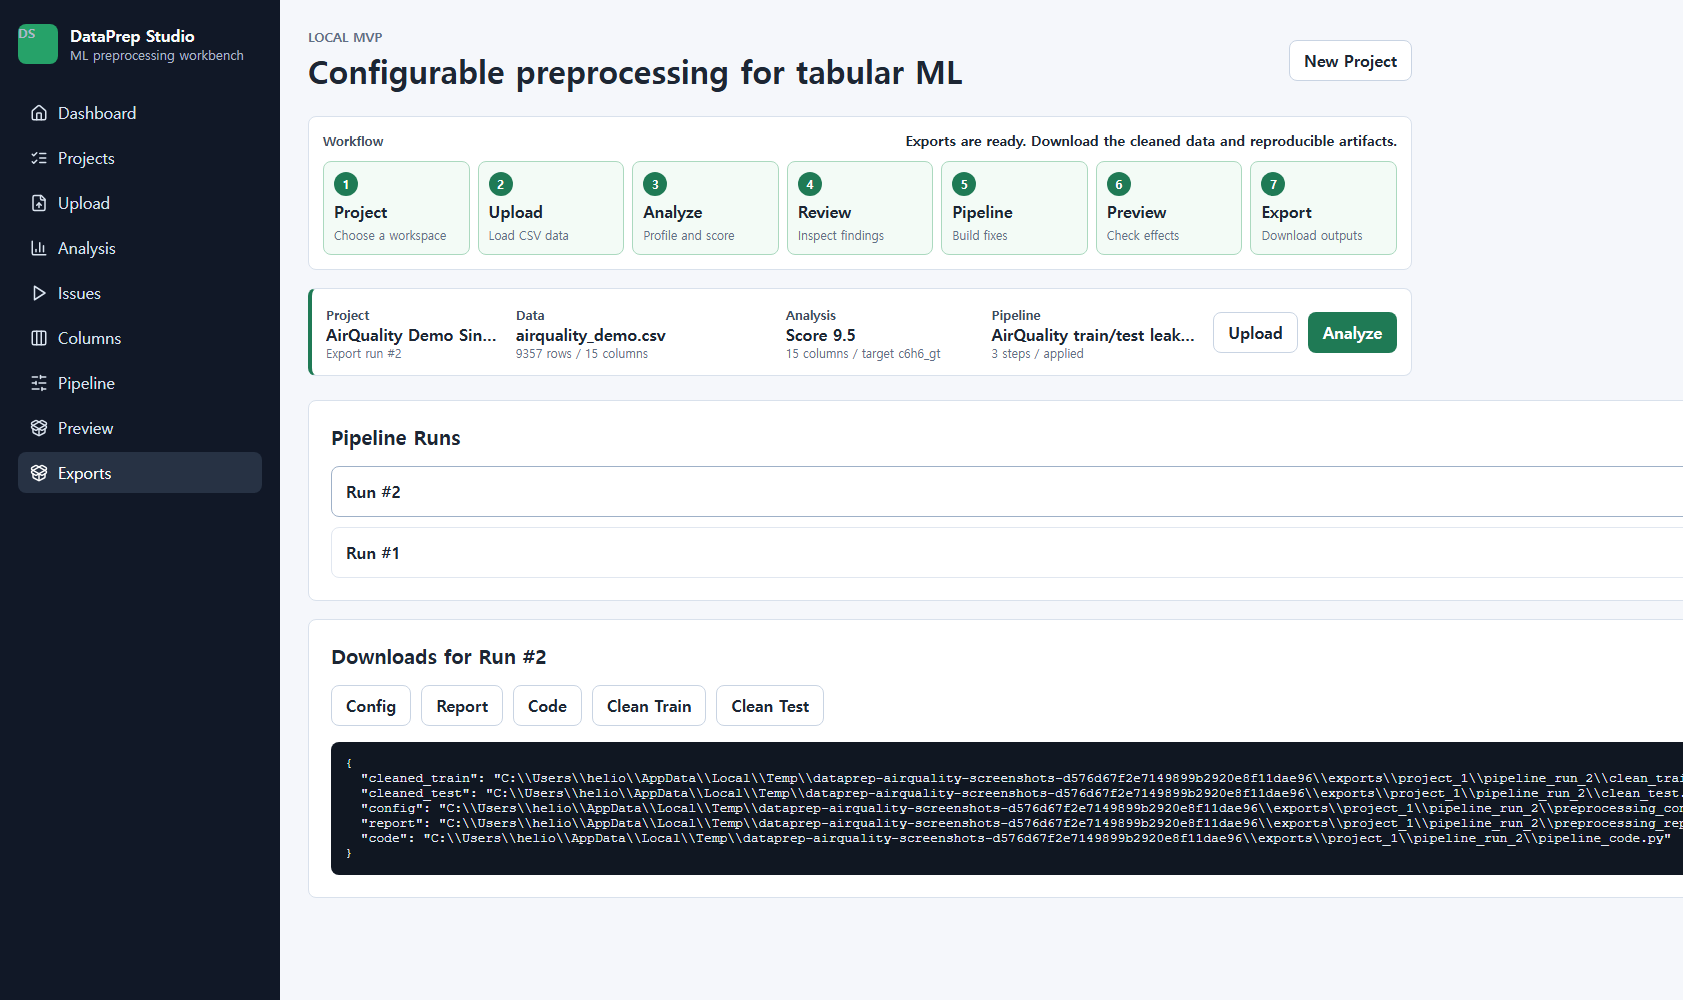
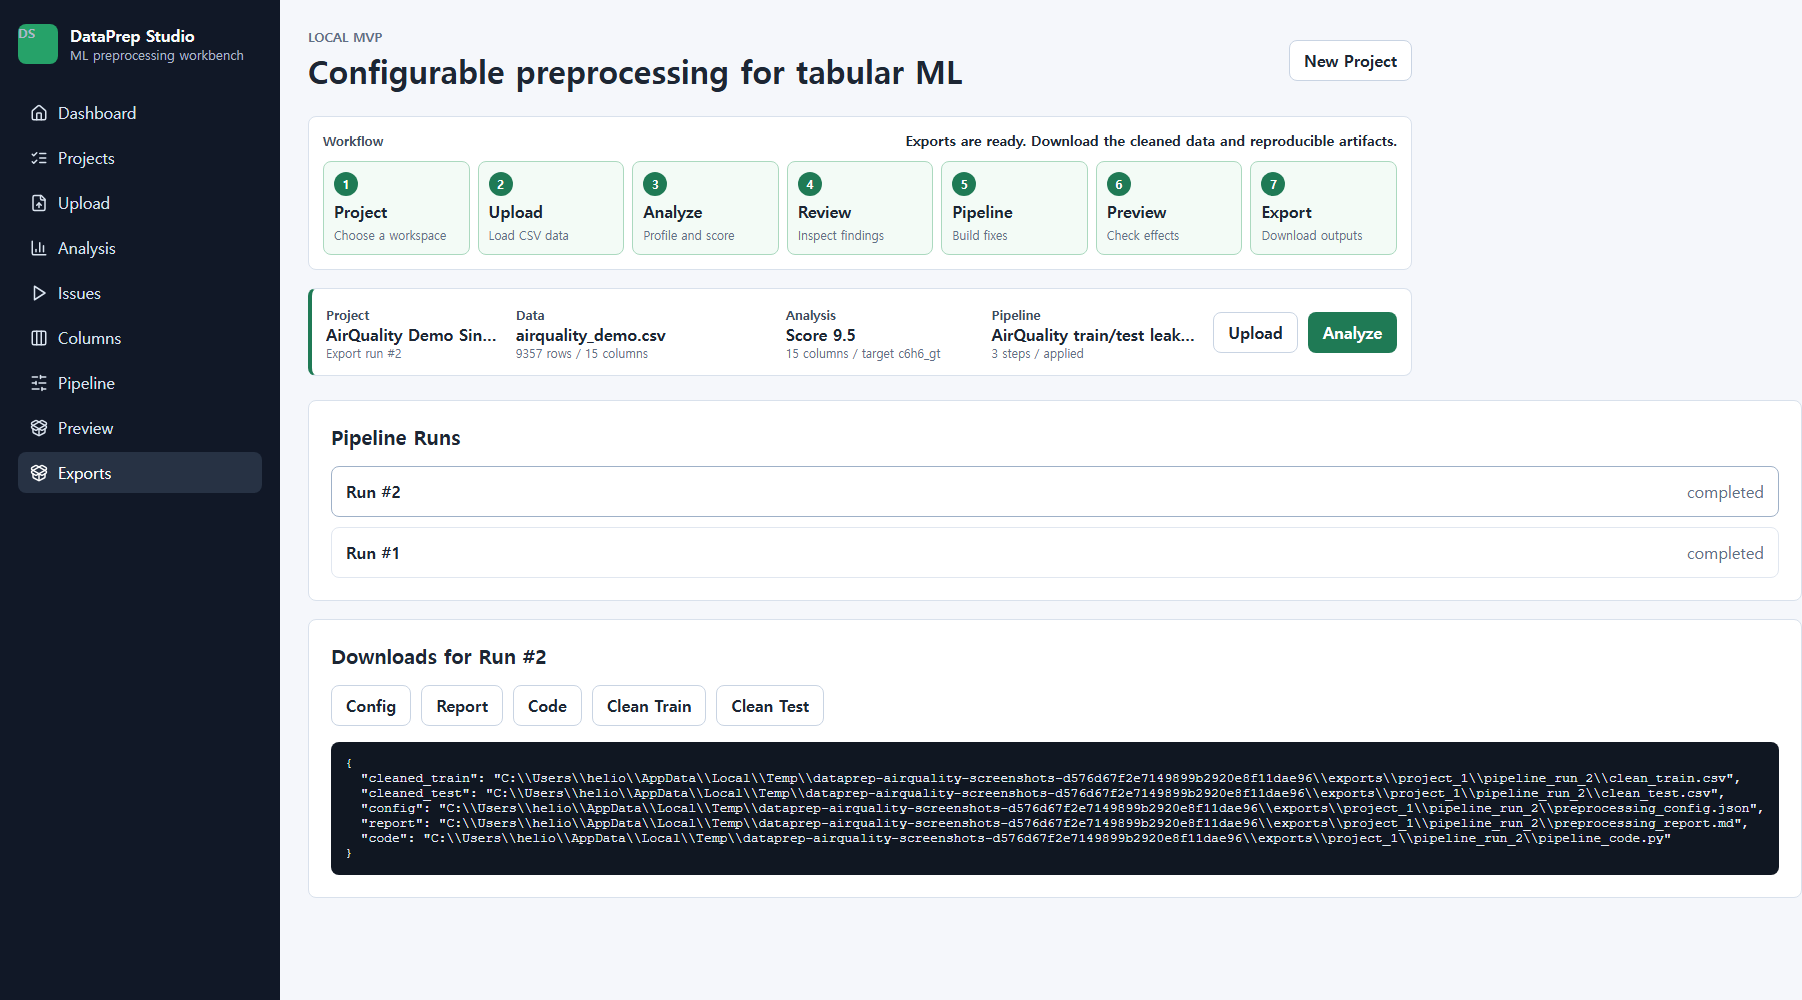
fix: polish demo workflow UI states

diff --git a/frontend/src/pages/AnalysisPage.tsx b/frontend/src/pages/AnalysisPage.tsx
@@ -22,6 +22,66 @@ import { LoadingState } from "../components/LoadingState";
 import { ReportPreview } from "../components/ReportPreview";
 import { ScoreCard } from "../components/ScoreCard";
 
+type JsonRecord = Record<string, unknown>;
+
+function asRecord(value: unknown): JsonRecord | null {
+  return value && typeof value === "object" && !Array.isArray(value) ? value as JsonRecord : null;
+}
+
+function asNumber(value: unknown): number | null {
+  return typeof value === "number" && Number.isFinite(value) ? value : null;
+}
+
+function formatNumber(value: number | null, digits = 2) {
+  if (value === null) {
+    return "-";
+  }
+  return Number.isInteger(value) ? String(value) : value.toFixed(digits);
+}
+
+function countArray(value: unknown) {
+  return Array.isArray(value) ? value.length : 0;
+}
+
+function countColumnRecords(columns: unknown, predicate: (column: JsonRecord) => boolean) {
+  if (Array.isArray(columns)) {
+    return columns.filter((column) => {
+      const record = asRecord(column);
+      return record ? predicate(record) : false;
+    }).length;
+  }
+  const record = asRecord(columns);
+  if (!record) {
+    return 0;
+  }
+  return Object.values(record).filter((column) => {
+    const columnRecord = asRecord(column);
+    return columnRecord ? predicate(columnRecord) : false;
+  }).length;
+}
+
+function trainTestDriftSummary(comparison: JsonRecord) {
+  const summary = asRecord(comparison.summary) ?? {};
+  const rowCounts = asRecord(summary.row_counts) ?? {};
+  const columnCounts = asRecord(summary.column_counts) ?? {};
+  const columns = summary.columns ?? comparison.columns;
+  const explicitHighDrift = asNumber(summary.high_drift_columns);
+  const flaggedColumns = explicitHighDrift ?? countColumnRecords(columns, (column) => column.drift_flag === true);
+  const insufficientDataColumns = countColumnRecords(columns, (column) => column.status === "insufficient_data");
+  const schemaIssueCount = countArray(summary.missing_columns_in_test) + countArray(summary.extra_columns_in_test);
+
+  return {
+    driftScore: asNumber(comparison.drift_score),
+    trainRows: asNumber(rowCounts.train),
+    testRows: asNumber(rowCounts.test),
+    trainColumns: asNumber(columnCounts.train),
+    testColumns: asNumber(columnCounts.test),
+    flaggedColumns,
+    insufficientDataColumns,
+    schemaIssueCount
+  };
+}
+
 export function AnalysisPage({
   projectId,
   analysisId,
@@ -75,6 +135,7 @@ export function AnalysisPage({
   const issueEntries = useMemo(() => Object.entries(overview?.issue_counts ?? {}).filter(([, count]) => count > 0), [overview]);
   const issueTotal = useMemo(() => issueEntries.reduce((sum, [, count]) => sum + count, 0), [issueEntries]);
   const recommendationCount = preprocessingRecommendations?.recommendations.length ?? 0;
+  const driftSummary = useMemo(() => comparison ? trainTestDriftSummary(comparison) : null, [comparison]);
 
   function readinessBand(score: number) {
     if (score >= 85) {
@@ -161,6 +222,7 @@ export function AnalysisPage({
     setProblemType(config.problem_type);
     setMissingTokens(config.missing_value_tokens.join(","));
     setIgnoredColumns(config.ignored_columns.join(","));
+    setNotice(null);
     setColumnTypeOverrides((current) => {
       const next = { ...current };
       for (const [column, type] of Object.entries(config.column_type_overrides)) {
@@ -379,9 +441,9 @@ export function AnalysisPage({
           </label>
           {setupSuggestion?.target_candidates.length ? (
             <div className="suggestion-box">
-              <strong>Suggested setup</strong>
+              <strong>Recommended starting point</strong>
               <span>
-                Target {setupSuggestion.recommended_target_column || "none"} / {setupSuggestion.recommended_problem_type}
+                Suggested target {setupSuggestion.recommended_target_column || "none"} / {setupSuggestion.recommended_problem_type}
               </span>
               <div className="target-candidates">
                 {setupSuggestion.target_candidates.map((candidate) => (
@@ -528,13 +590,39 @@ export function AnalysisPage({
             <div className="toolbar no-margin">
               <a className="button button-secondary" href={apiClient.analysisReportUrl(overview.analysis_run.id)}>Download Report</a>
             </div>
-            {comparison ? (
+            {driftSummary ? (
               <div className="analysis-detail-panel">
                 <strong>Train/Test Drift</strong>
-                <div className="summary-grid">
-                  <pre>{JSON.stringify({ drift_score: comparison.drift_score }, null, 2)}</pre>
-                  <pre>{JSON.stringify(comparison.summary, null, 2)}</pre>
+                <div className="train-test-summary-grid">
+                  <section>
+                    <span className="field-label">Drift Score</span>
+                    <strong>{formatNumber(driftSummary.driftScore)}</strong>
+                  </section>
+                  <section>
+                    <span className="field-label">Rows</span>
+                    <strong>{formatNumber(driftSummary.trainRows, 0)} / {formatNumber(driftSummary.testRows, 0)}</strong>
+                    <small>train / test</small>
+                  </section>
+                  <section>
+                    <span className="field-label">Columns</span>
+                    <strong>{formatNumber(driftSummary.trainColumns, 0)} / {formatNumber(driftSummary.testColumns, 0)}</strong>
+                    <small>train / test</small>
+                  </section>
+                  <section>
+                    <span className="field-label">Drift Flags</span>
+                    <strong>{formatNumber(driftSummary.flaggedColumns, 0)}</strong>
+                    <small>{driftSummary.insufficientDataColumns} insufficient-data columns</small>
+                  </section>
+                  <section>
+                    <span className="field-label">Schema Mismatch</span>
+                    <strong>{formatNumber(driftSummary.schemaIssueCount, 0)}</strong>
+                    <small>missing or extra test columns</small>
+                  </section>
                 </div>
+                <details className="drift-details">
+                  <summary>Raw comparison details</summary>
+                  <pre>{JSON.stringify(comparison, null, 2)}</pre>
+                </details>
               </div>
             ) : null}
           </div>

diff --git a/frontend/src/styles/global.css b/frontend/src/styles/global.css
@@ -405,6 +405,51 @@ main {
   font-weight: 700;
 }
 
+.train-test-summary-grid {
+  display: grid;
+  grid-template-columns: repeat(5, minmax(0, 1fr));
+  gap: 10px;
+}
+
+.train-test-summary-grid section {
+  min-width: 0;
+  padding: 12px;
+  border: 1px solid #dce4ef;
+  border-radius: 8px;
+  background: #fff;
+}
+
+.train-test-summary-grid strong,
+.train-test-summary-grid small {
+  display: block;
+}
+
+.train-test-summary-grid strong {
+  margin-top: 6px;
+  color: #111827;
+  font-size: 22px;
+}
+
+.train-test-summary-grid small {
+  margin-top: 4px;
+  color: #5f6f86;
+}
+
+.drift-details {
+  margin-top: 4px;
+}
+
+.drift-details summary {
+  cursor: pointer;
+  color: #31445b;
+  font-weight: 700;
+}
+
+.drift-details pre {
+  margin-top: 10px;
+  max-height: 420px;
+}
+
 .action-card-grid {
   display: grid;
   grid-template-columns: repeat(4, minmax(0, 1fr));
@@ -1338,6 +1383,7 @@ pre {
   .summary-grid,
   .chart-grid,
   .analysis-overview-grid,
+  .train-test-summary-grid,
   .action-card-grid,
   .compact-form,
   .checkbox-grid,

diff --git a/frontend/src/App.tsx b/frontend/src/App.tsx
@@ -2,7 +2,7 @@ import { useCallback, useEffect, useState } from "react";
 import { BarChart3, Columns3, FileUp, Home, ListChecks, PackageOpen, Play, SlidersHorizontal } from "lucide-react";
 
 import { apiClient } from "./api/client";
-import type { AnalysisOverview, Dashboard, DatasetFile, Pipeline, SuggestedPipelineStep } from "./api/types";
+import type { AnalysisOverview, Dashboard, DatasetFile, Pipeline, PipelineRun, SuggestedPipelineStep } from "./api/types";
 import { Button } from "./components/Button";
 import { ErrorState } from "./components/ErrorState";
 import { LoadingState } from "./components/LoadingState";
@@ -136,6 +136,18 @@ export default function App() {
       .catch(() => setSelectedPipeline(null));
   }, [selectedPipelineId]);
 
+  useEffect(() => {
+    if (selectedPipeline?.analysis_run_id && selectedPipeline.analysis_run_id !== selectedAnalysisId) {
+      setSelectedAnalysisId(selectedPipeline.analysis_run_id);
+    }
+  }, [selectedAnalysisId, selectedPipeline]);
+
+  const handlePipelineRunSelected = useCallback((run: PipelineRun) => {
+    setSelectedProjectId(run.project_id);
+    setSelectedPipelineId(run.pipeline_id);
+    setSelectedPipelineRunId(run.id);
+  }, []);
+
   const latestByRole = (role: DatasetFile["role"]) => loadedDatasets.find((dataset) => dataset.role === role) ?? null;
 
   const hasDataset = Boolean(latestByRole("single") || (latestByRole("train") && latestByRole("test")));
@@ -150,6 +162,9 @@ export default function App() {
   const nextAction = (() => {
     if (!selectedProjectId) {
       return "Create or select a project to start.";
+    }
+    if (hasExport) {
+      return "Exports are ready. Download the cleaned data and reproducible artifacts.";
     }
     if (!hasDataset) {
       return "Upload a single CSV or a train/test pair.";
@@ -298,7 +313,7 @@ export default function App() {
           />
         );
       case "exports":
-        return <ExportPage projectId={selectedProjectId} pipelineRunId={selectedPipelineRunId} onRunSelected={setSelectedPipelineRunId} />;
+        return <ExportPage projectId={selectedProjectId} pipelineRunId={selectedPipelineRunId} onRunSelected={handlePipelineRunSelected} />;
       default:
         return <DashboardPage dashboard={dashboard} onCreateProject={() => setPage("create")} onSelectProject={chooseProject} />;
     }

diff --git a/frontend/src/pages/ExportPage.tsx b/frontend/src/pages/ExportPage.tsx
@@ -15,7 +15,7 @@ export function ExportPage({
 }: {
   projectId: number | null;
   pipelineRunId: number | null;
-  onRunSelected: (runId: number) => void;
+  onRunSelected: (run: PipelineRun) => void;
 }) {
   const [runs, setRuns] = useState<PipelineRun[]>([]);
   const [selected, setSelected] = useState<PipelineRun | null>(null);
@@ -27,17 +27,22 @@ export function ExportPage({
     const loader = pipelineRunId
       ? apiClient.getPipelineRun(pipelineRunId).then((run) => {
           setSelected(run);
+          onRunSelected(run);
           return projectId ? apiClient.listProjectPipelineRuns(projectId).then(setRuns) : undefined;
         })
       : projectId
         ? apiClient.listProjectPipelineRuns(projectId).then((items) => {
-            setRuns(items);
-            setSelected(items[0] ?? null);
-          })
+          setRuns(items);
+          const firstRun = items[0] ?? null;
+          setSelected(firstRun);
+          if (firstRun) {
+            onRunSelected(firstRun);
+          }
+        })
         : Promise.resolve();
 
     loader.catch((err: Error) => setError(err.message)).finally(() => setLoading(false));
-  }, [projectId, pipelineRunId]);
+  }, [onRunSelected, projectId, pipelineRunId]);
 
   if (!projectId && !pipelineRunId) {
     return <EmptyState title="No project selected" message="Apply a pipeline to create export artifacts." />;
@@ -62,7 +67,7 @@ export function ExportPage({
                 key={run.id}
                 onClick={() => {
                   setSelected(run);
-                  onRunSelected(run.id);
+                  onRunSelected(run);
                 }}
               >
                 <strong>Run #{run.id}</strong>

diff --git a/frontend/src/pages/ProjectDetailPage.tsx b/frontend/src/pages/ProjectDetailPage.tsx
@@ -99,7 +99,7 @@ export function ProjectDetailPage({
                 <div className="list-row" key={dataset.id}>
                   <strong>{dataset.filename}</strong>
                   <span>
-                    {dataset.role} · {dataset.row_count} rows · {dataset.column_count} columns
+                    {dataset.role} / {dataset.row_count} rows / {dataset.column_count} columns
                   </span>
                 </div>
               ))}
@@ -116,7 +116,7 @@ export function ProjectDetailPage({
                 <button className="list-row list-button" key={analysis.id} onClick={() => onAnalyze(analysis.id)}>
                   <strong>Score {analysis.readiness_score.toFixed(1)}</strong>
                   <span>
-                    {analysis.problem_type} · target {analysis.target_column || "none"}
+                    {analysis.problem_type} / target {analysis.target_column || "none"}
                   </span>
                 </button>
               ))}
@@ -134,7 +134,7 @@ export function ProjectDetailPage({
               <button className="list-row list-button" key={pipeline.id} onClick={() => onPipeline(pipeline.id)}>
                 <strong>{pipeline.name}</strong>
                 <span>
-                  {pipeline.mode} · {pipeline.status} · {pipeline.steps.length} steps
+                  {pipeline.mode} / {pipeline.status} / {pipeline.steps.length} steps
                 </span>
               </button>
             ))}

diff --git a/frontend/tests/app-smoke.spec.ts b/frontend/tests/app-smoke.spec.ts
@@ -637,6 +637,7 @@ test("renders dashboard and creates a project shell", async ({ page }) => {
 
   await expect(page.getByRole("heading", { name: project.name })).toBeVisible();
   await expect(page.getByText(dataset.filename).first()).toBeVisible();
+  await expect(page.getByText("single / 5 rows / 4 columns")).toBeVisible();
   await expect(page.getByText("5 rows / 4 columns").first()).toBeVisible();
   await expect(page.getByLabel("Workflow progress")).toContainText("Run analysis on the loaded data.");
   await expect(page.getByLabel("Current workspace context")).toContainText("Project #101");
@@ -790,7 +791,10 @@ test("runs a train/test analysis and exports train-only fitted outputs", async (
 
   await expect(page.getByText("76.4").first()).toBeVisible();
   await expect(page.getByText("Train/Test Drift")).toBeVisible();
-  await expect(page.getByText("high_drift_columns")).toBeVisible();
+  await expect(page.locator(".train-test-summary-grid")).toContainText("Drift Score");
+  await expect(page.locator(".train-test-summary-grid")).toContainText("0.28");
+  await expect(page.locator(".train-test-summary-grid")).toContainText("Drift Flags");
+  await expect(page.getByText("Raw comparison details")).toBeVisible();
 
   await page.getByRole("button", { name: "Build Pipeline" }).click();
   await expect(page.getByRole("heading", { name: "Pipeline Overview" })).toBeVisible();